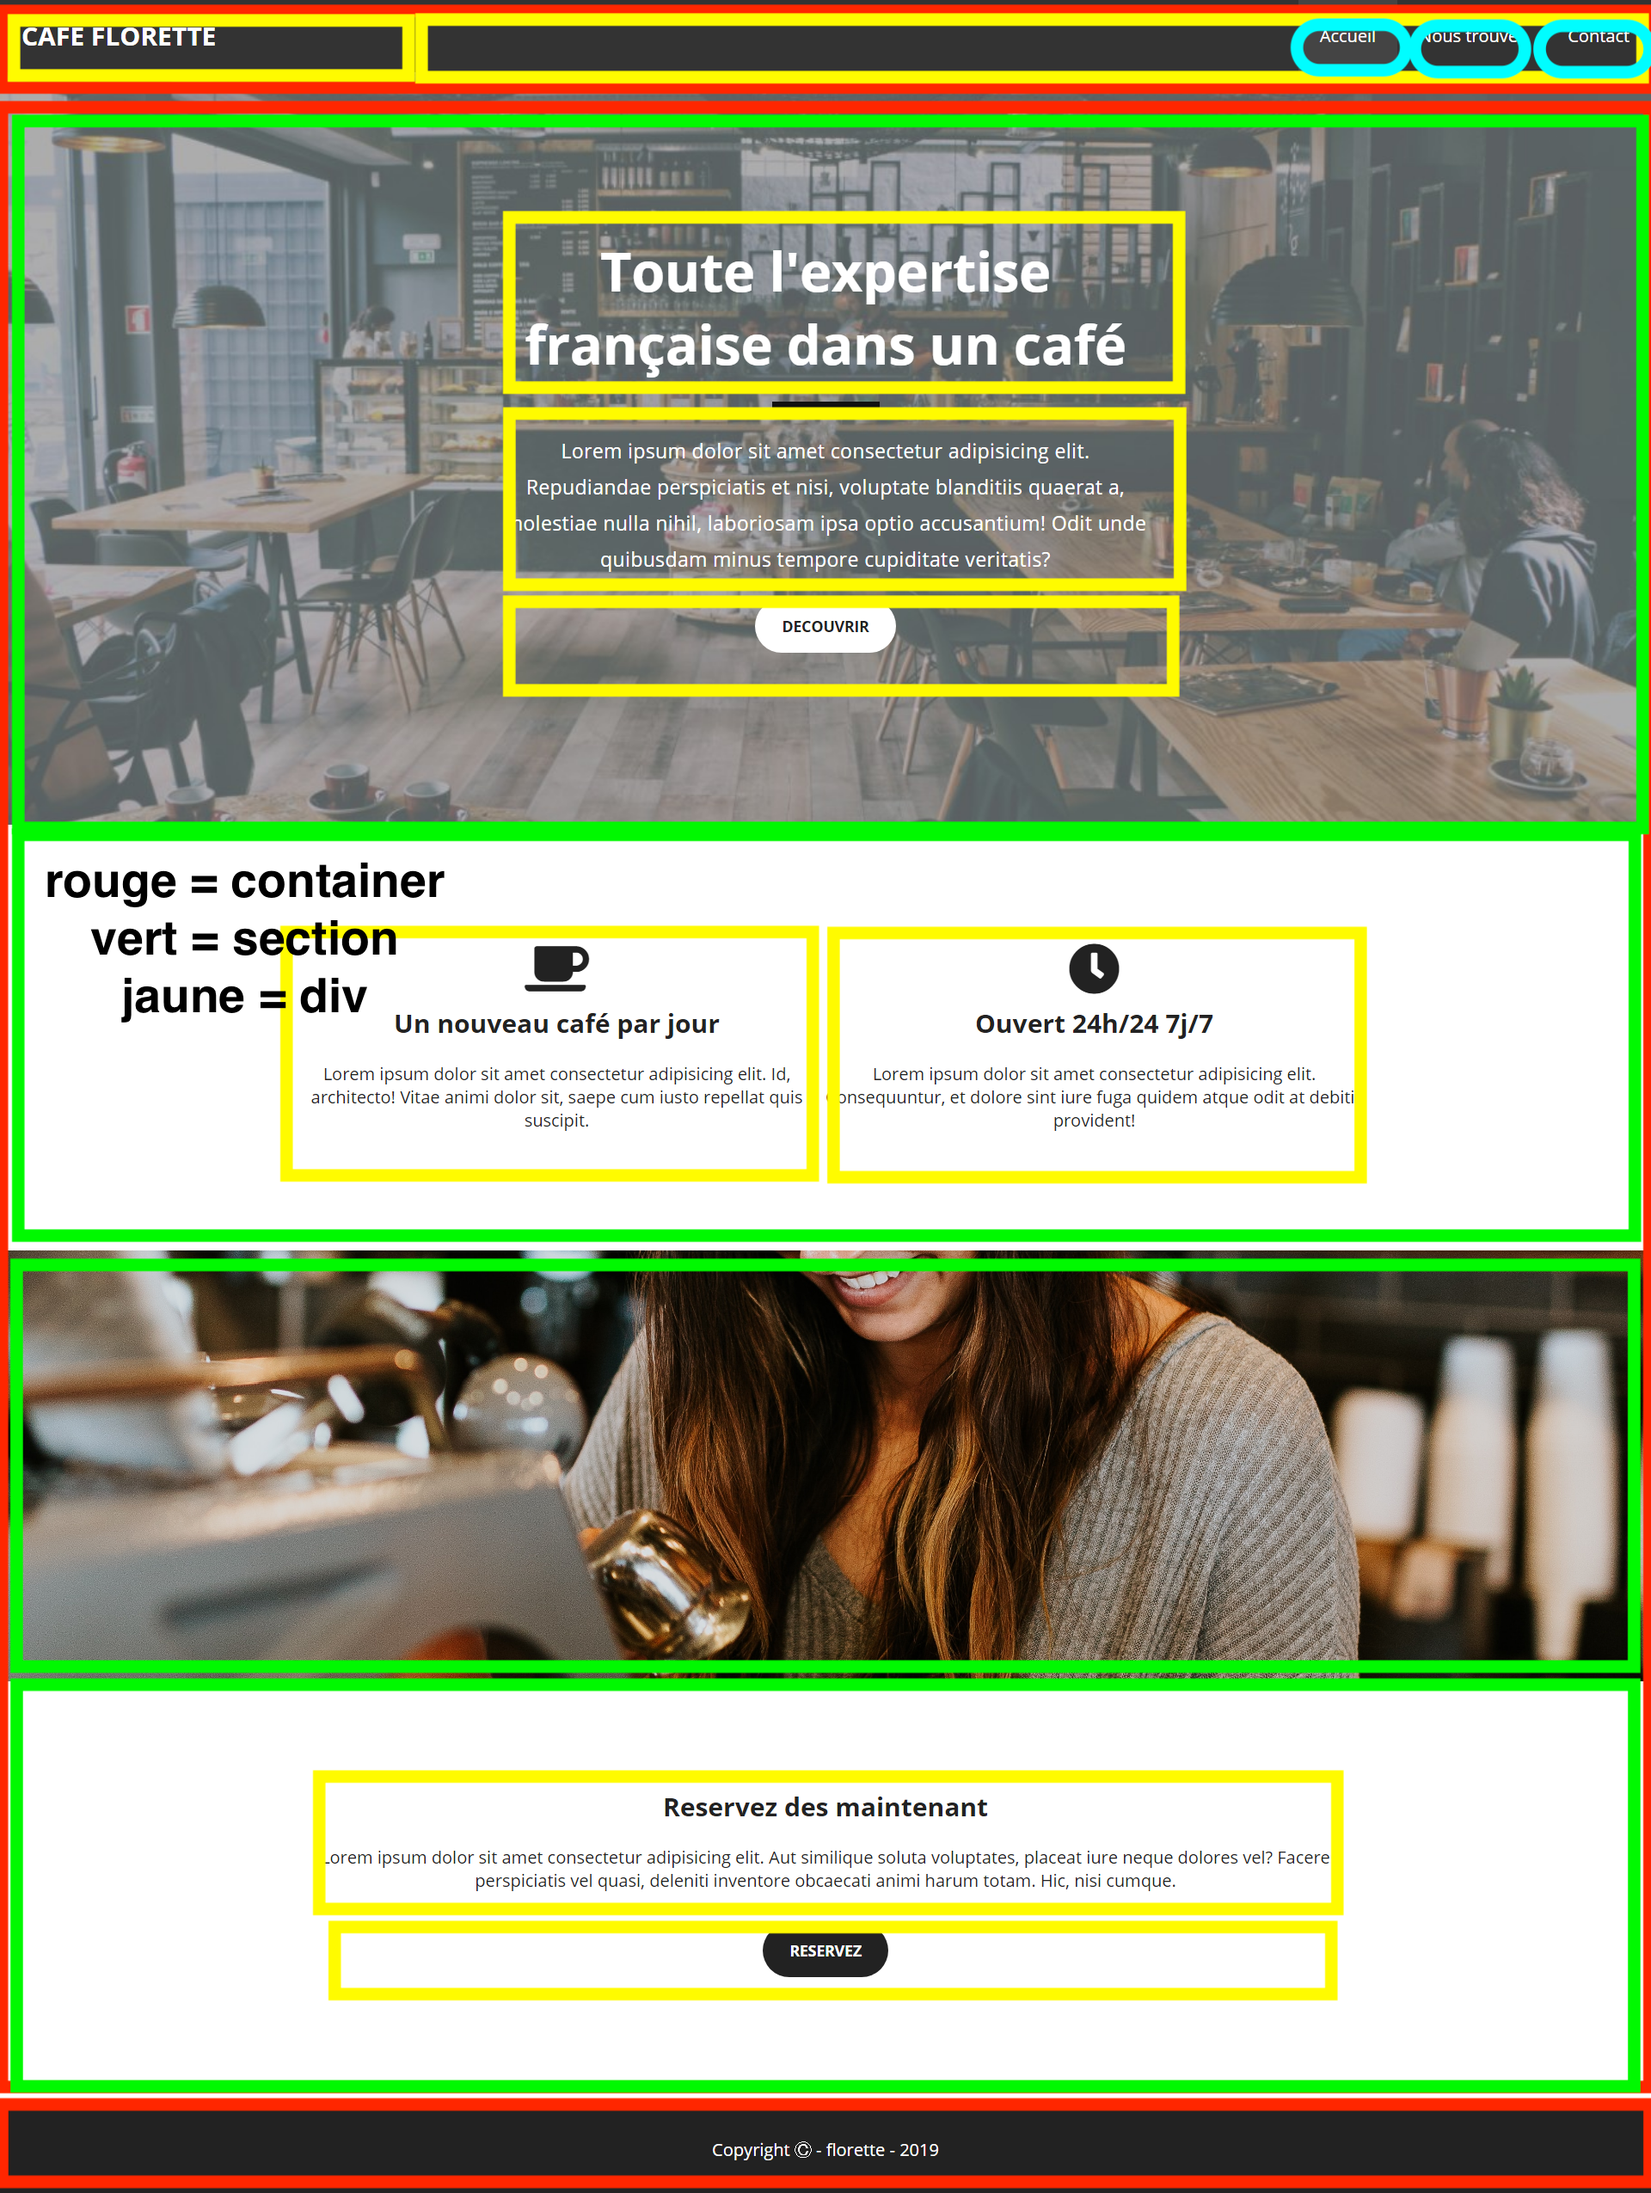
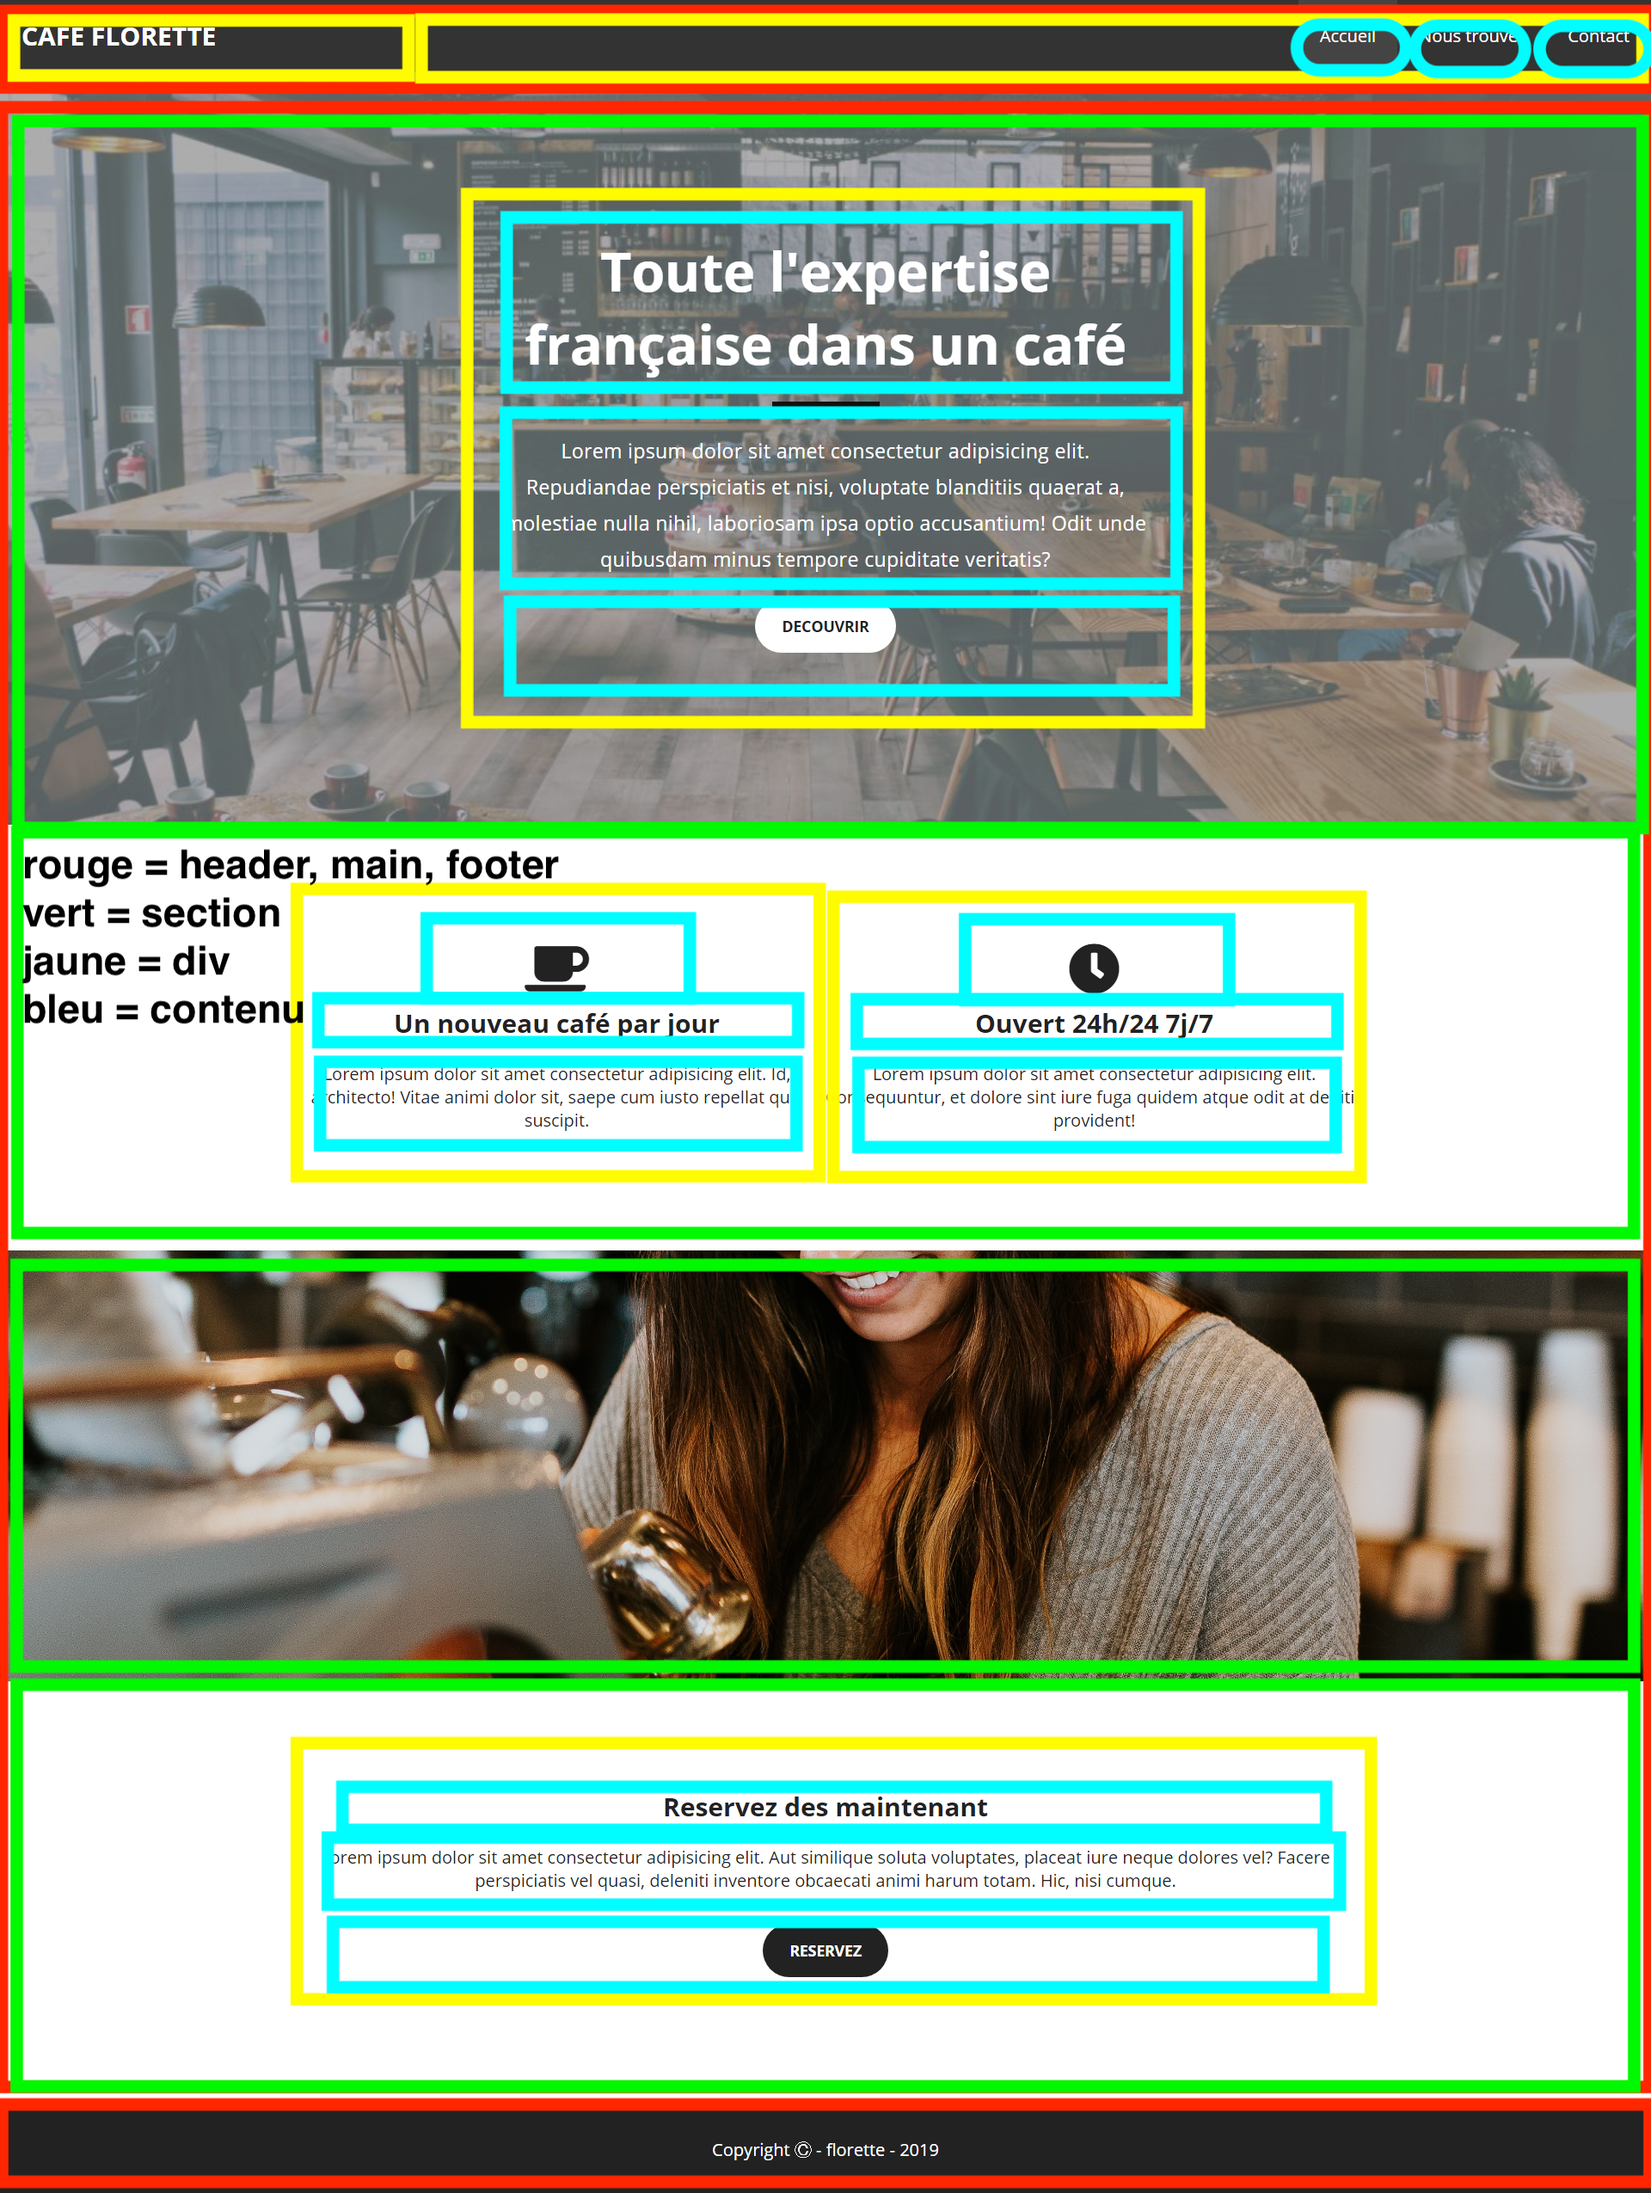
add img

Changed region(s): [[0.0, 0.3718, 0.9688, 0.5886], [0.1562, 0.7745, 0.8438, 0.9294], [0.2812, 0.062, 0.75, 0.3408]]

diff --git a/index.html b/index.html
@@ -1,15 +1,38 @@
 <!DOCTYPE html>
-<html lang="en">
+<html lang="fr">
 <head>
     <meta charset="UTF-8">
     <meta http-equiv="X-UA-Compatible" content="IE=edge">
     <meta name="viewport" content="width=device-width, initial-scale=1.0">
-    <title>Document</title>
+    <link rel="stylesheet" href="style.css">
+    <title>Café Florette</title>
 </head>
-
 <!--    rouge = container
         vert = section 
         jaune = div -->
+
+    <header>
+        <h1> Cafe florette </h1>
+        <nav>
+            <ul>
+                <li> <a href=" "> Acceuil</a></li>
+                <li> <a href=" "> Vous trouver</a></li>
+                <li> <a href=" "> Contact</a></li>
+            </ul>
+        </nav>
+    </header>
+
+    <main>
+        <section></section>
+        <section></section>
+        <section></section>
+        <section></section>
+
+    </main>
+
+    <footer>
+        <p> Copyright - florette - 2019</p>
+    </footer>
 <body>
     
 </body>

diff --git a/style.css b/style.css
@@ -1,0 +1,5 @@
+*{
+    margin: 0;
+    padding: 0;
+}
+
